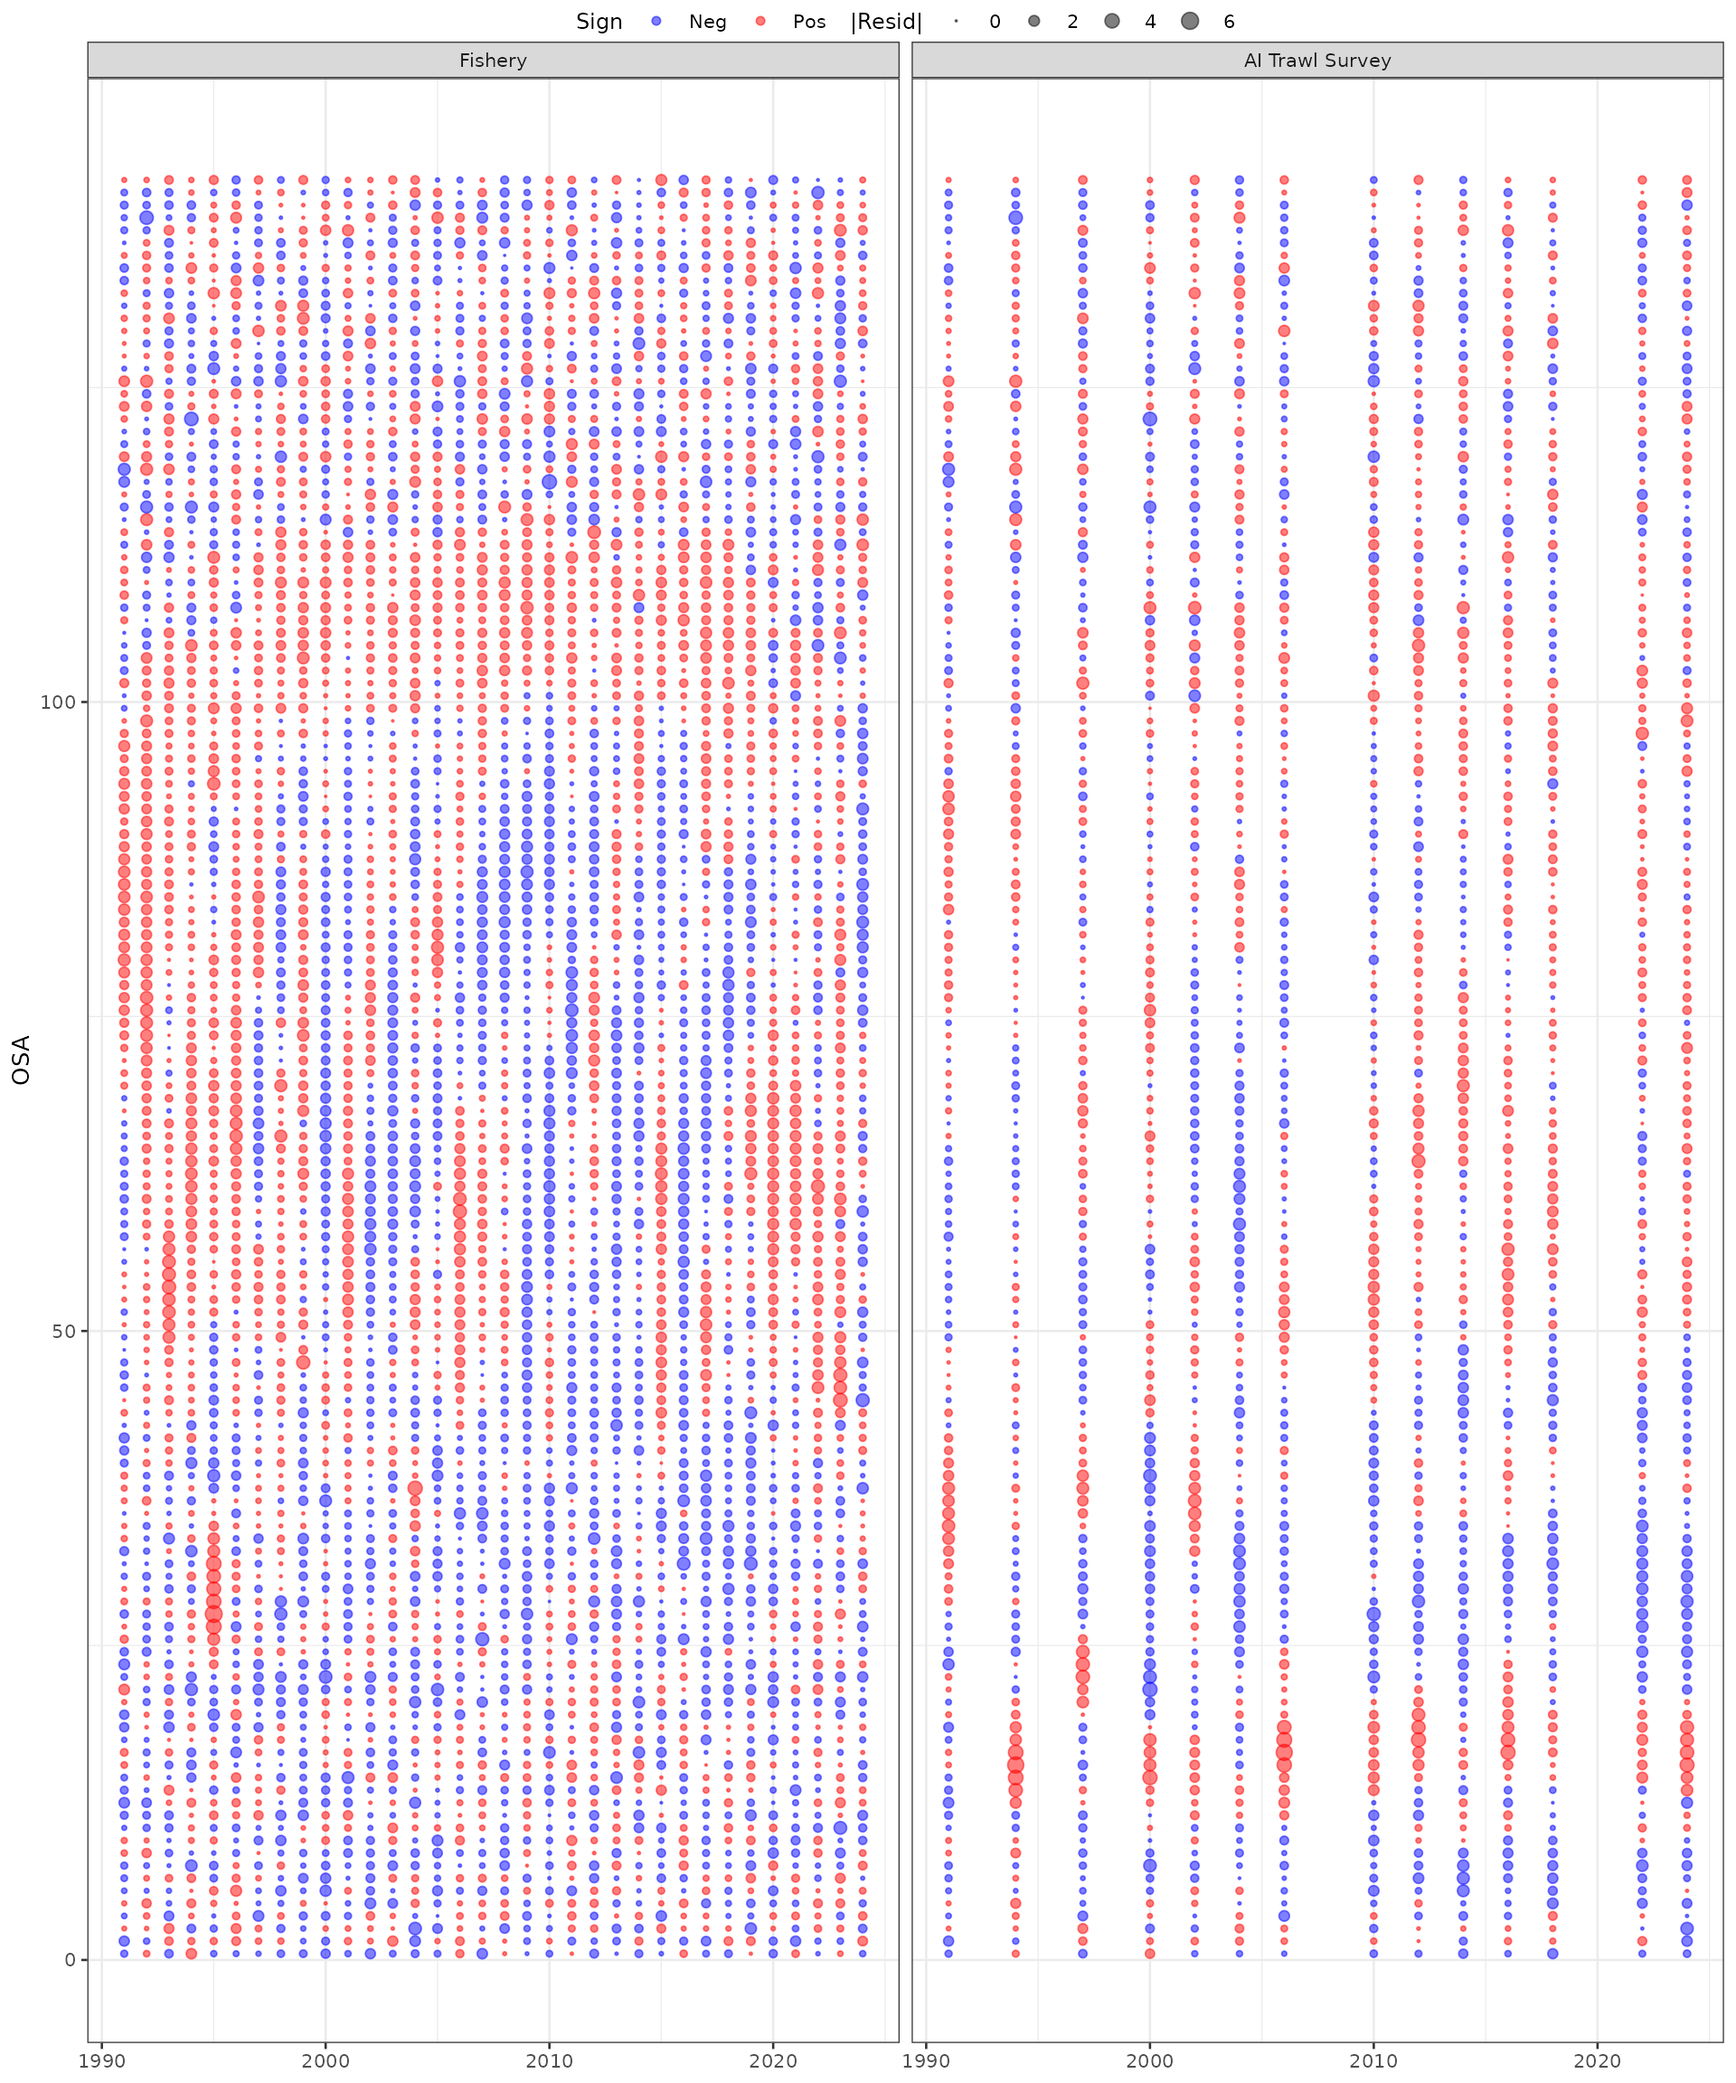
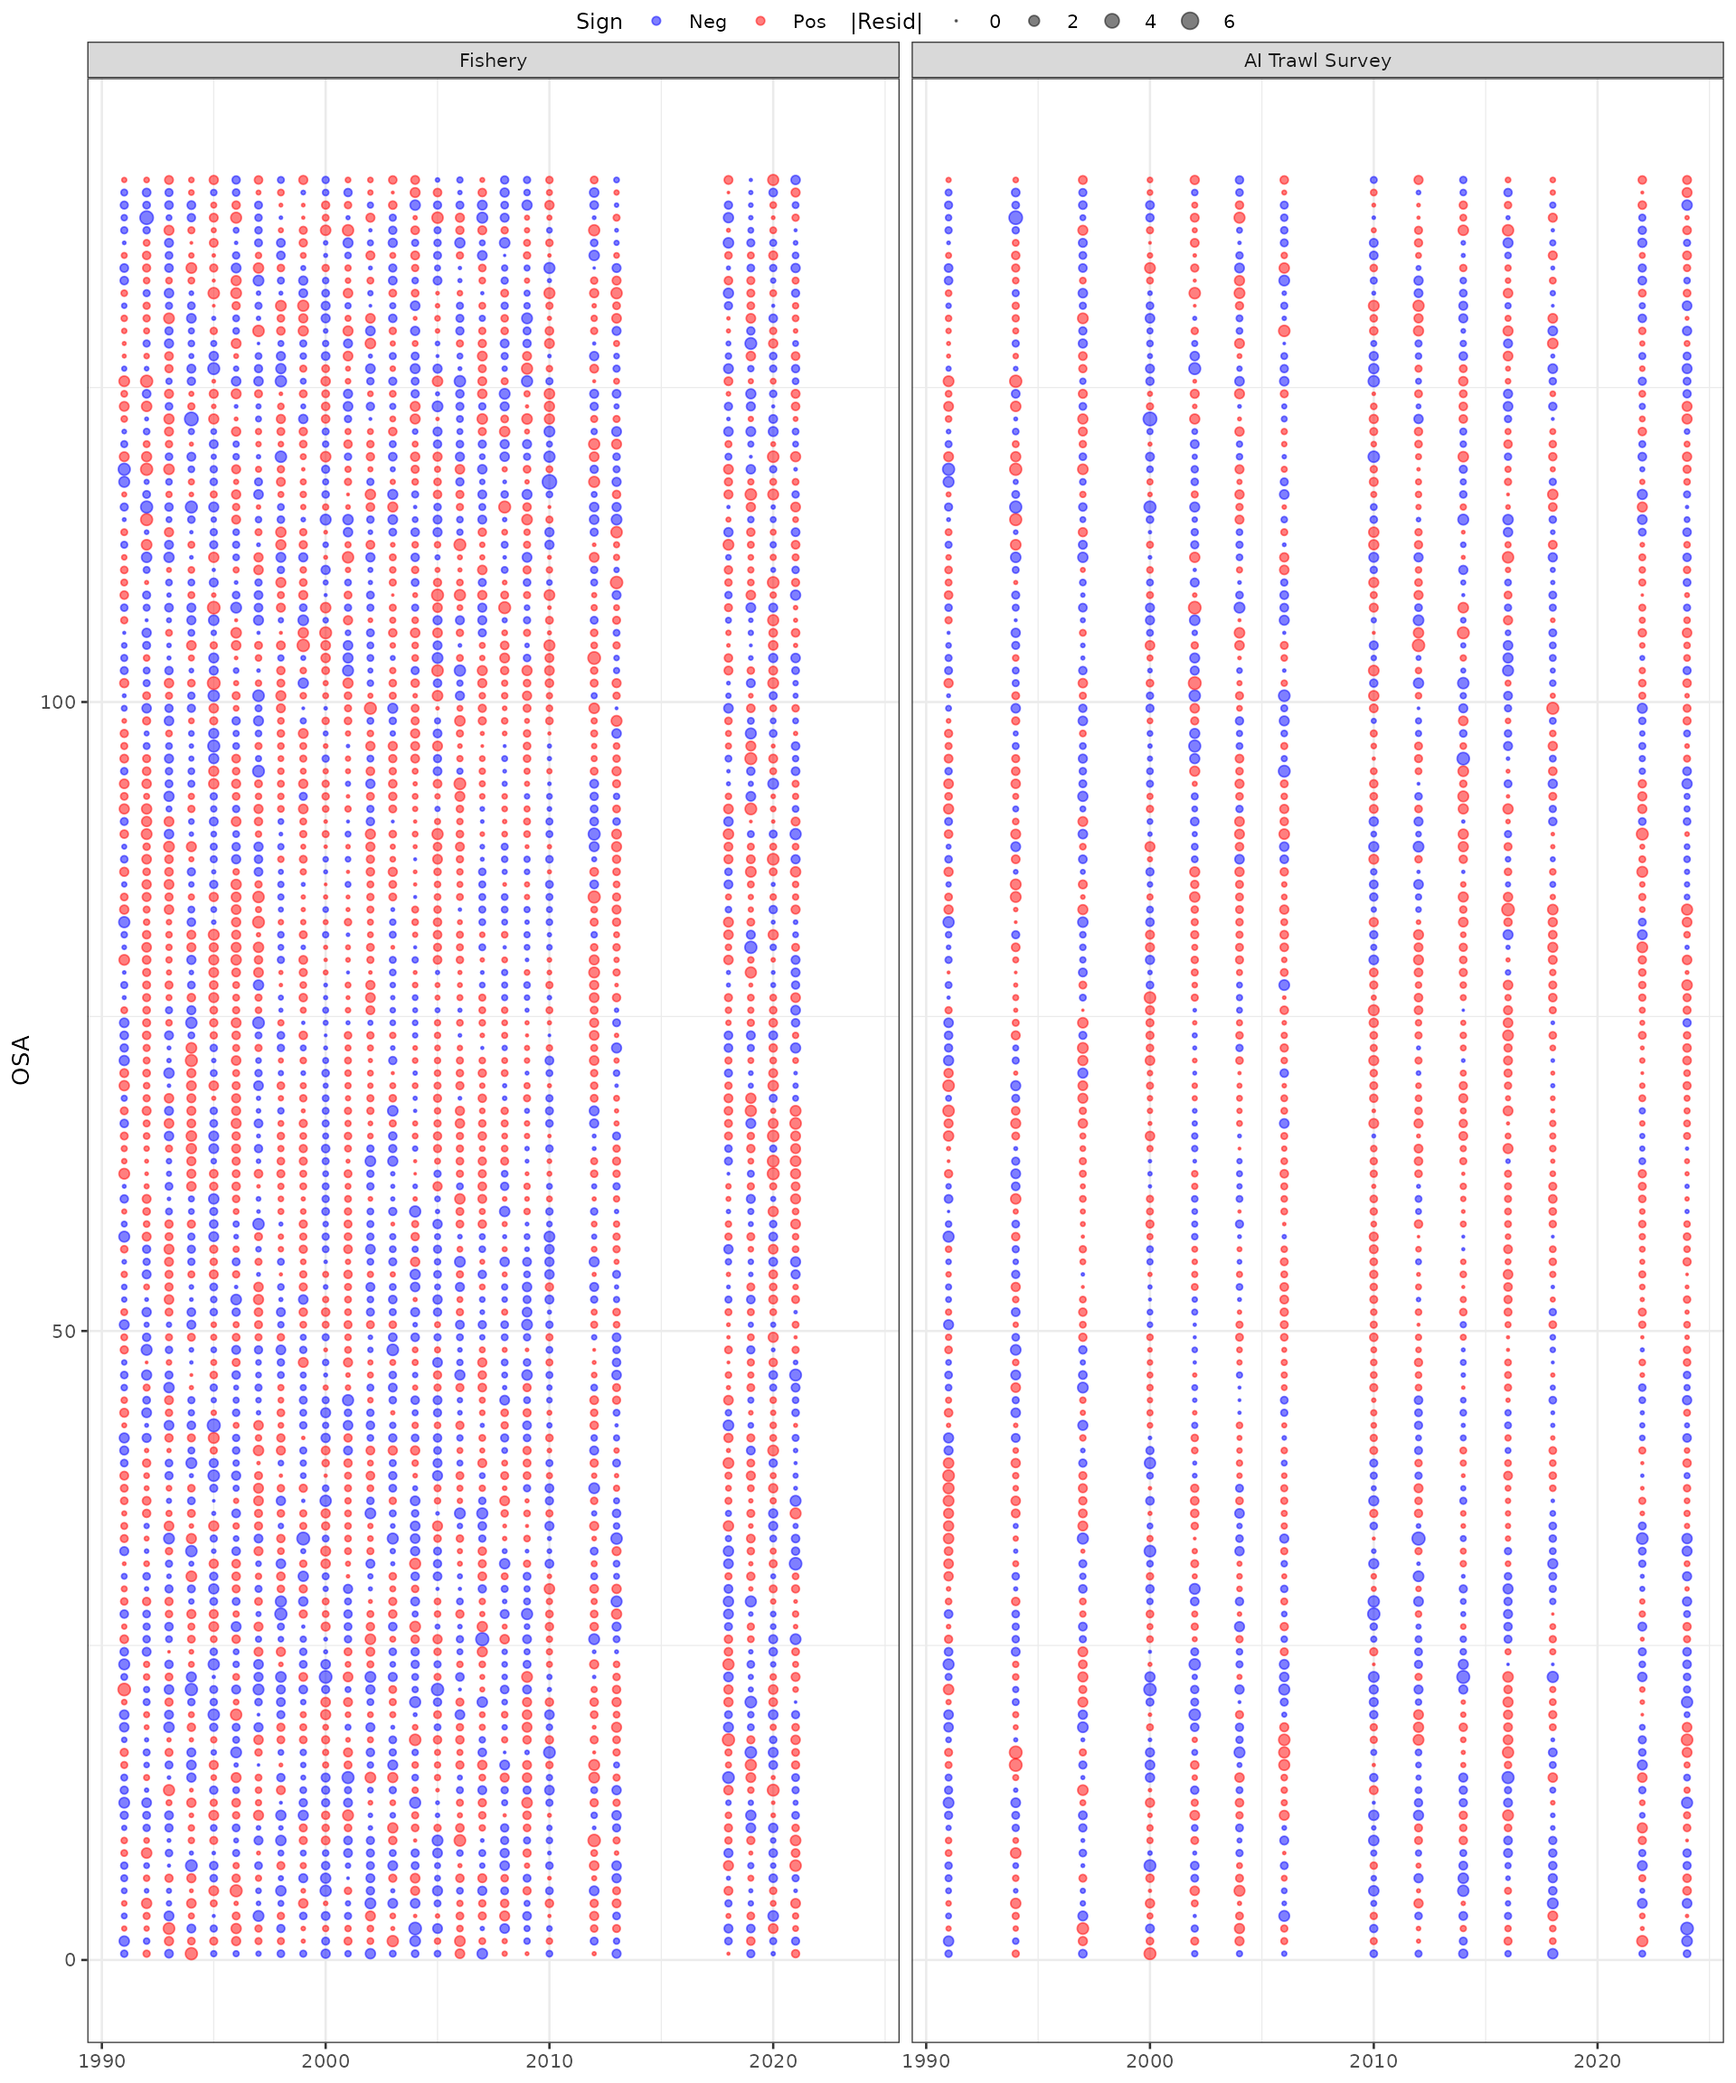
Deploying to gh-pages from @ noaa-afsc/afscOSA@176dc10958cfd2c52f59430de1700934bbb11592 🚀

diff --git a/articles/ss3_ai_pcod.html b/articles/ss3_ai_pcod.html
@@ -132,7 +132,7 @@ output(s) from <code><a href="../reference/run_osa.html">run_osa()</a></code>. S
 <span><span class="va">comps</span> <span class="op">&lt;-</span> <span class="fu">reshape2</span><span class="fu">::</span><span class="fu"><a href="https://rdrr.io/pkg/reshape2/man/melt.html" class="external-link">melt</a></span><span class="op">(</span><span class="va">comps</span>,id.vars <span class="op">=</span> <span class="fu"><a href="https://rdrr.io/r/base/c.html" class="external-link">c</a></span><span class="op">(</span><span class="st">'Yr'</span>,<span class="st">'Fleet'</span>,<span class="st">'Sex'</span>,<span class="st">'Bin'</span><span class="op">)</span><span class="op">)</span></span>
 <span></span>
 <span><span class="co"># input sample sizes for the fleets defined in "fleet" and "sx"</span></span>
-<span><span class="va">Ndf</span> <span class="op">&lt;-</span> <span class="fu"><a href="https://rdrr.io/r/base/as.data.frame.html" class="external-link">as.data.frame</a></span><span class="op">(</span><span class="va">mod</span><span class="op">[[</span><span class="fl">1</span><span class="op">]</span><span class="op">]</span><span class="op">$</span><span class="va">lendbase</span><span class="op">[</span>,<span class="fu"><a href="https://rdrr.io/r/base/c.html" class="external-link">c</a></span><span class="op">(</span><span class="fl">1</span>,<span class="fl">6</span>,<span class="fl">13</span>,<span class="fl">16</span>,<span class="fl">22</span><span class="op">)</span><span class="op">]</span><span class="op">)</span></span>
+<span><span class="va">Ndf</span> <span class="op">&lt;-</span> <span class="fu"><a href="https://rdrr.io/r/base/as.data.frame.html" class="external-link">as.data.frame</a></span><span class="op">(</span><span class="va">mod</span><span class="op">[[</span><span class="fl">1</span><span class="op">]</span><span class="op">]</span><span class="op">$</span><span class="va">lendbase</span><span class="op">[</span>,<span class="fu"><a href="https://rdrr.io/r/base/c.html" class="external-link">c</a></span><span class="op">(</span><span class="fl">1</span>,<span class="fl">6</span>,<span class="fl">13</span>,<span class="fl">16</span>,<span class="fl">20</span>,<span class="fl">22</span><span class="op">)</span><span class="op">]</span><span class="op">)</span></span>
 <span><span class="va">Ndf</span> <span class="op">&lt;-</span> <span class="va">Ndf</span><span class="op">[</span><span class="va">Ndf</span><span class="op">$</span><span class="va">Bin</span> <span class="op">==</span> <span class="fu"><a href="https://rdrr.io/r/base/Extremes.html" class="external-link">min</a></span><span class="op">(</span><span class="va">Ndf</span><span class="op">$</span><span class="va">Bin</span><span class="op">)</span>,<span class="op">]</span></span>
 <span></span>
 <span><span class="co"># length bins</span></span>
@@ -147,7 +147,7 @@ output(s) from <code><a href="../reference/run_osa.html">run_osa()</a></code>. S
 <span><span class="va">tmp</span> <span class="op">&lt;-</span> <span class="va">comps</span><span class="op">[</span><span class="va">comps</span><span class="op">$</span><span class="va">Fleet</span><span class="op">==</span><span class="va">flt</span>,<span class="op">]</span></span>
 <span></span>
 <span><span class="co"># input sample sizes (vector)</span></span>
-<span><span class="va">N</span> <span class="op">&lt;-</span> <span class="va">Ndf</span><span class="op">$</span><span class="va">effN</span><span class="op">[</span><span class="va">Ndf</span><span class="op">$</span><span class="va">Fleet</span><span class="op">==</span><span class="va">flt</span><span class="op">]</span></span>
+<span><span class="va">N</span> <span class="op">&lt;-</span> <span class="va">Ndf</span><span class="op">$</span><span class="va">Nsamp_adj</span><span class="op">[</span><span class="va">Ndf</span><span class="op">$</span><span class="va">Fleet</span><span class="op">==</span><span class="va">flt</span><span class="op">]</span></span>
 <span></span>
 <span><span class="co"># observed values -&gt; put in matrix format (nrow = nyr, ncol = age/length)</span></span>
 <span><span class="va">obs</span> <span class="op">&lt;-</span> <span class="va">tmp</span><span class="op">[</span><span class="va">tmp</span><span class="op">$</span><span class="va">variable</span><span class="op">==</span><span class="st">'Obs'</span>,<span class="op">]</span></span>
@@ -172,6 +172,7 @@ output(s) from <code><a href="../reference/run_osa.html">run_osa()</a></code>. S
 <span></span>
 <span><span class="va">out1</span> <span class="op">&lt;-</span> <span class="fu">afscOSA</span><span class="fu">::</span><span class="fu"><a href="../reference/run_osa.html">run_osa</a></span><span class="op">(</span>fleet <span class="op">=</span> <span class="st">'Fishery'</span>, index_label <span class="op">=</span> <span class="st">'Length'</span>,</span>
 <span>                         obs <span class="op">=</span> <span class="va">obs</span>, exp <span class="op">=</span> <span class="va">exp</span>, N <span class="op">=</span> <span class="va">N</span>, index <span class="op">=</span> <span class="va">lens</span>, years <span class="op">=</span> <span class="va">yrs</span><span class="op">)</span></span>
+<span><span class="co">#&gt; [1] "Excluded years where N &lt; 1: 2011, 2014, 2015, 2016, 2017, 2022, 2023, 2024"</span></span>
 <span></span>
 <span></span>
 <span><span class="co"># AI bottom trawl survey (fleet 2) ----</span></span>
@@ -183,7 +184,7 @@ output(s) from <code><a href="../reference/run_osa.html">run_osa()</a></code>. S
 <span><span class="va">tmp</span> <span class="op">&lt;-</span> <span class="va">comps</span><span class="op">[</span><span class="va">comps</span><span class="op">$</span><span class="va">Fleet</span><span class="op">==</span><span class="va">flt</span>,<span class="op">]</span></span>
 <span></span>
 <span><span class="co"># input sample sizes (vector)</span></span>
-<span><span class="va">N</span> <span class="op">&lt;-</span> <span class="va">Ndf</span><span class="op">$</span><span class="va">effN</span><span class="op">[</span><span class="va">Ndf</span><span class="op">$</span><span class="va">Fleet</span><span class="op">==</span><span class="va">flt</span><span class="op">]</span></span>
+<span><span class="va">N</span> <span class="op">&lt;-</span> <span class="va">Ndf</span><span class="op">$</span><span class="va">Nsamp_adj</span><span class="op">[</span><span class="va">Ndf</span><span class="op">$</span><span class="va">Fleet</span><span class="op">==</span><span class="va">flt</span><span class="op">]</span></span>
 <span></span>
 <span><span class="co"># observed values -&gt; put in matrix format (nrow = nyr, ncol = age/length)</span></span>
 <span><span class="va">obs</span> <span class="op">&lt;-</span> <span class="va">tmp</span><span class="op">[</span><span class="va">tmp</span><span class="op">$</span><span class="va">variable</span><span class="op">==</span><span class="st">'Obs'</span>,<span class="op">]</span></span>
@@ -213,8 +214,7 @@ output(s) from <code><a href="../reference/run_osa.html">run_osa()</a></code>. S
 <span><span class="va">input</span> <span class="op">&lt;-</span> <span class="fu"><a href="https://rdrr.io/r/base/list.html" class="external-link">list</a></span><span class="op">(</span><span class="va">out1</span>, <span class="va">out2</span><span class="op">)</span></span>
 <span><span class="va">osaplots</span> <span class="op">&lt;-</span> <span class="fu"><a href="../reference/plot_osa.html">plot_osa</a></span><span class="op">(</span><span class="va">input</span>, use_agg_proportions <span class="op">=</span> <span class="cn">TRUE</span><span class="op">)</span></span>
 <span><span class="co">#&gt; Warning in plot_osa(input, use_agg_proportions = TRUE): The following Pearson</span></span>
-<span><span class="co">#&gt; residuals were set to 6 for plotting: 8.05 12.59 7.6 6.54 6.19 7.37 6.31 7.09</span></span>
-<span><span class="co">#&gt; 10.44 11.38 6.79 14.21 7.3 8.67 9.18 6.23</span></span></code></pre></div>
+<span><span class="co">#&gt; residuals were set to 6 for plotting: 6.9 17.4 13.59</span></span></code></pre></div>
 <p><img src="ss3_ai_pcod_files/figure-html/unnamed-chunk-2-1.png" class="r-plt" alt="" width="960"></p>
 <p>Note on Residual Truncation:</p>
 <p>The warning above indicates that extreme Pearson residuals (e.g.,
@@ -228,8 +228,7 @@ user can extract the different plotting components:</p>
 <div class="sourceCode" id="cb4"><pre class="downlit sourceCode r">
 <code class="sourceCode R"><span><span class="va">osaplots</span> <span class="op">&lt;-</span> <span class="fu"><a href="../reference/plot_osa.html">plot_osa</a></span><span class="op">(</span><span class="va">input</span>, use_agg_proportions<span class="op">=</span><span class="cn">TRUE</span>, plot<span class="op">=</span><span class="cn">FALSE</span><span class="op">)</span></span>
 <span><span class="co">#&gt; Warning in plot_osa(input, use_agg_proportions = TRUE, plot = FALSE): The</span></span>
-<span><span class="co">#&gt; following Pearson residuals were set to 6 for plotting: 8.05 12.59 7.6 6.54</span></span>
-<span><span class="co">#&gt; 6.19 7.37 6.31 7.09 10.44 11.38 6.79 14.21 7.3 8.67 9.18 6.23</span></span>
+<span><span class="co">#&gt; following Pearson residuals were set to 6 for plotting: 6.9 17.4 13.59</span></span>
 <span><span class="va">osaplots</span><span class="op">$</span><span class="va">bubble</span></span></code></pre></div>
 <p><img src="ss3_ai_pcod_files/figure-html/unnamed-chunk-3-1.png" class="r-plt" alt="" width="960"></p>
 <div class="sourceCode" id="cb5"><pre class="downlit sourceCode r">

diff --git a/articles/ss3_ai_pcod.md b/articles/ss3_ai_pcod.md
@@ -80,7 +80,7 @@ comps <- comps[comps$Fleet %in% fleet & comps$Sex %in% sx, ]
 comps <- reshape2::melt(comps,id.vars = c('Yr','Fleet','Sex','Bin'))
 
 # input sample sizes for the fleets defined in "fleet" and "sx"
-Ndf <- as.data.frame(mod[[1]]$lendbase[,c(1,6,13,16,22)])
+Ndf <- as.data.frame(mod[[1]]$lendbase[,c(1,6,13,16,20,22)])
 Ndf <- Ndf[Ndf$Bin == min(Ndf$Bin),]
 
 # length bins
@@ -95,7 +95,7 @@ flt <- 1 # USER INPUT
 tmp <- comps[comps$Fleet==flt,]
 
 # input sample sizes (vector)
-N <- Ndf$effN[Ndf$Fleet==flt]
+N <- Ndf$Nsamp_adj[Ndf$Fleet==flt]
 
 # observed values -> put in matrix format (nrow = nyr, ncol = age/length)
 obs <- tmp[tmp$variable=='Obs',]
@@ -120,6 +120,7 @@ ncol(obs);ncol(exp);length(lens)
 
 out1 <- afscOSA::run_osa(fleet = 'Fishery', index_label = 'Length',
                          obs = obs, exp = exp, N = N, index = lens, years = yrs)
+#> [1] "Excluded years where N < 1: 2011, 2014, 2015, 2016, 2017, 2022, 2023, 2024"
 
 
 # AI bottom trawl survey (fleet 2) ----
@@ -131,7 +132,7 @@ flt <- 2 # USER INPUT
 tmp <- comps[comps$Fleet==flt,]
 
 # input sample sizes (vector)
-N <- Ndf$effN[Ndf$Fleet==flt]
+N <- Ndf$Nsamp_adj[Ndf$Fleet==flt]
 
 # observed values -> put in matrix format (nrow = nyr, ncol = age/length)
 obs <- tmp[tmp$variable=='Obs',]
@@ -161,8 +162,7 @@ out2 <- afscOSA::run_osa(fleet = 'AI Trawl Survey', index_label = 'Length',
 input <- list(out1, out2)
 osaplots <- plot_osa(input, use_agg_proportions = TRUE)
 #> Warning in plot_osa(input, use_agg_proportions = TRUE): The following Pearson
-#> residuals were set to 6 for plotting: 8.05 12.59 7.6 6.54 6.19 7.37 6.31 7.09
-#> 10.44 11.38 6.79 14.21 7.3 8.67 9.18 6.23
+#> residuals were set to 6 for plotting: 6.9 17.4 13.59
 ```
 
 ![](ss3_ai_pcod_files/figure-html/unnamed-chunk-2-1.png)
@@ -183,8 +183,7 @@ user can extract the different plotting components:
 
 osaplots <- plot_osa(input, use_agg_proportions=TRUE, plot=FALSE)
 #> Warning in plot_osa(input, use_agg_proportions = TRUE, plot = FALSE): The
-#> following Pearson residuals were set to 6 for plotting: 8.05 12.59 7.6 6.54
-#> 6.19 7.37 6.31 7.09 10.44 11.38 6.79 14.21 7.3 8.67 9.18 6.23
+#> following Pearson residuals were set to 6 for plotting: 6.9 17.4 13.59
 osaplots$bubble
 ```
 
